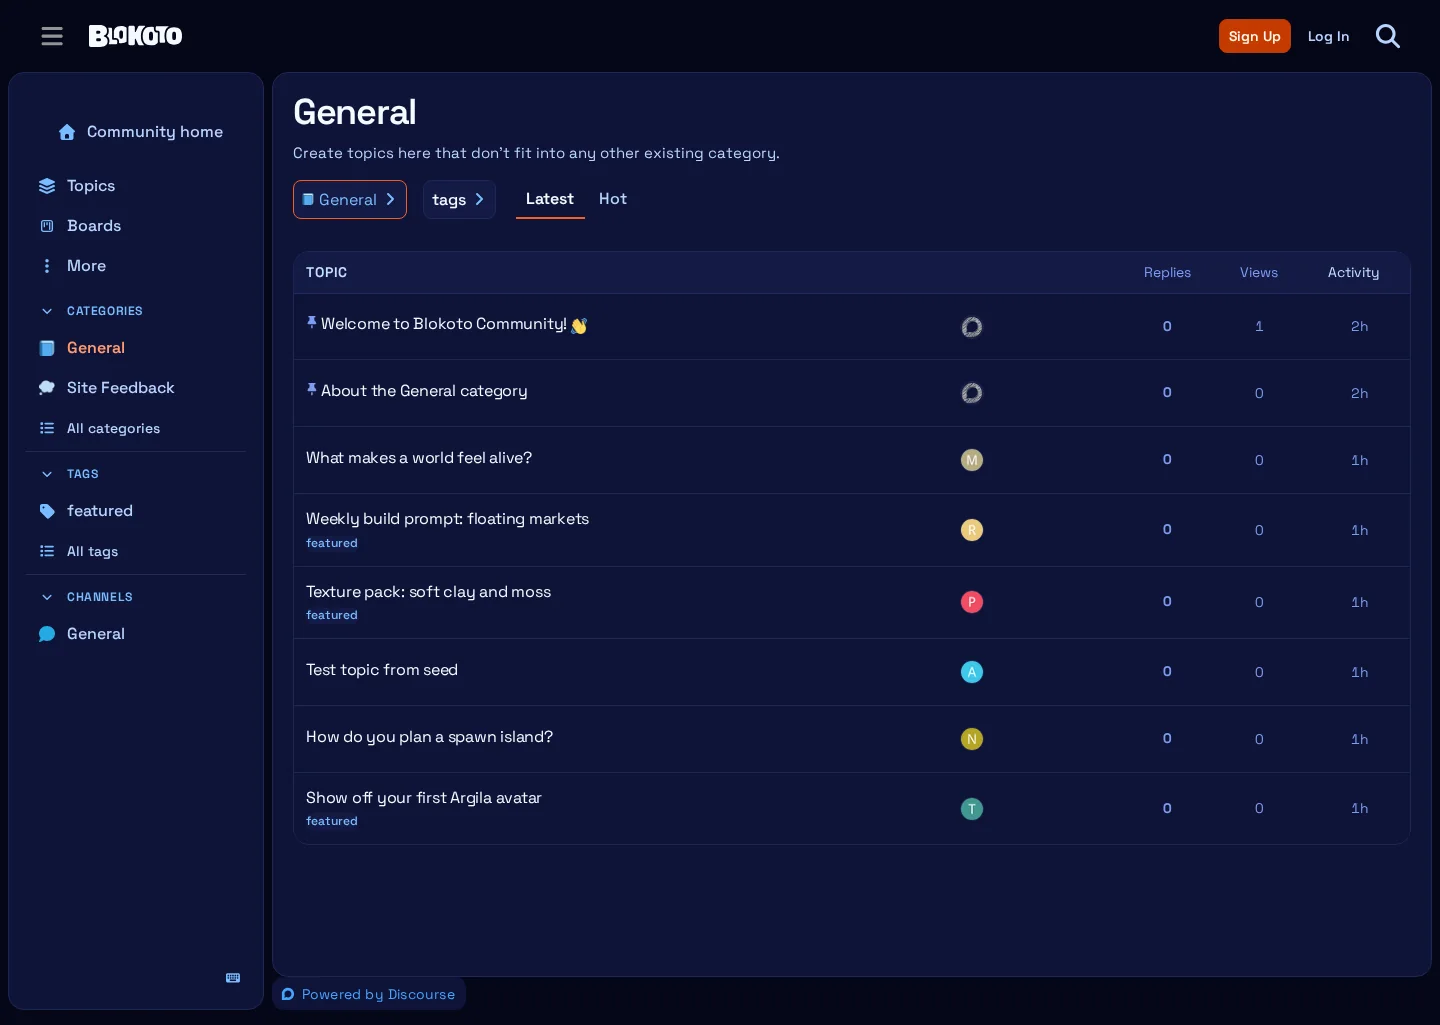
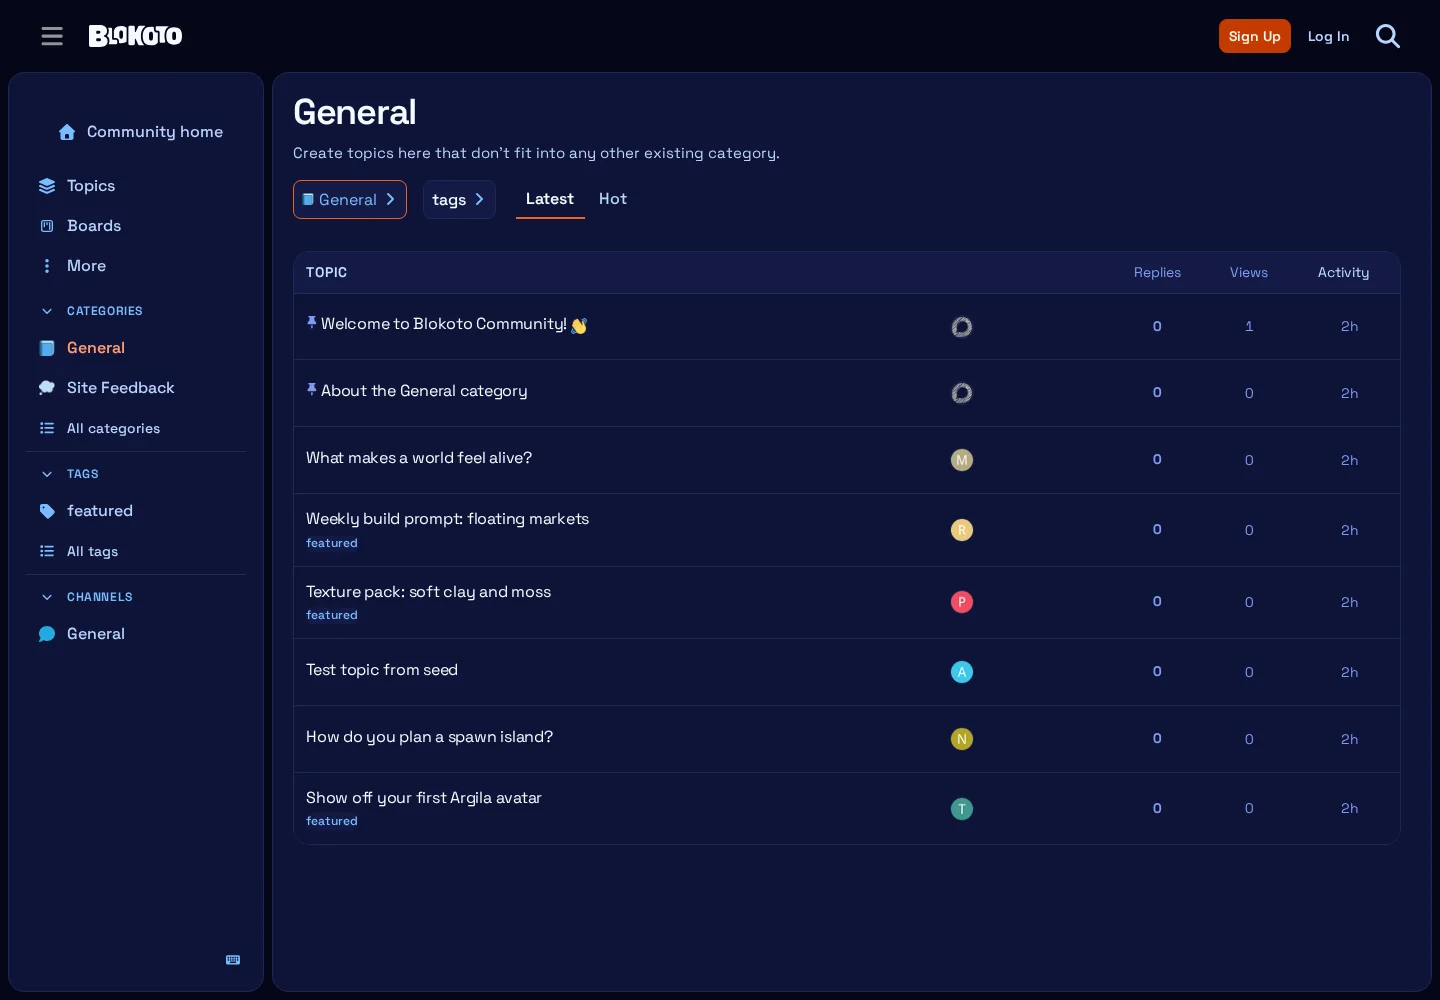
Lock the page viewport and scroll inside the islands

diff --git a/stylesheets/app/base.scss b/stylesheets/app/base.scss
@@ -1,9 +1,11 @@
-html {
+html,
+body {
+  height: 100%;
+  overflow: hidden;
   background-color: var(--t-Blokoto-color-canvas);
 }
 
 body {
-  background-color: var(--t-Blokoto-color-canvas);
   color: var(--t-Blokoto-color-text);
   font-family: var(--font-family);
   font-size: var(--font-up-0);
@@ -29,16 +31,33 @@ body::before {
   position: relative;
   z-index: 1;
   display: grid;
+  grid-template-areas: "sidebar content";
+  grid-template-columns: var(--d-sidebar-width) minmax(0, 1fr);
+  grid-template-rows: minmax(0, 1fr);
   gap: var(--space-2);
-  align-items: start;
+  align-items: stretch;
   width: 100%;
+  height: calc(100dvh - var(--t-Blokoto-header-height));
+  min-height: 0;
   padding: var(--space-2);
+  overflow: hidden;
+}
+
+#below-content,
+.powered-by-discourse {
+  display: none;
 }
 
 #main-outlet {
+  box-sizing: border-box;
+  grid-area: content;
+  scrollbar-gutter: stable;
   min-width: 0;
-  min-height: 60vh;
+  min-height: 0;
+  height: 100%;
   padding: var(--space-5);
+  overflow-y: auto;
+  overscroll-behavior: contain;
   background: var(--t-Blokoto-color-surface);
   border: 1px solid var(--t-Blokoto-color-border);
   border-radius: var(--t-Blokoto-radius);
@@ -48,12 +67,40 @@ body::before {
   max-width: none;
 }
 
+#main-outlet,
+.blokoto-home,
+.sidebar-wrapper {
+  scrollbar-width: thin;
+  scrollbar-color: var(--t-Blokoto-color-border-strong) transparent;
+}
+
+#main-outlet::-webkit-scrollbar,
+.blokoto-home::-webkit-scrollbar,
+.sidebar-wrapper::-webkit-scrollbar {
+  width: 10px;
+  height: 10px;
+}
+
+#main-outlet::-webkit-scrollbar-track,
+.blokoto-home::-webkit-scrollbar-track,
+.sidebar-wrapper::-webkit-scrollbar-track {
+  background: transparent;
+}
+
+#main-outlet::-webkit-scrollbar-thumb,
+.blokoto-home::-webkit-scrollbar-thumb,
+.sidebar-wrapper::-webkit-scrollbar-thumb {
+  background: var(--t-Blokoto-color-border-strong);
+  background-clip: padding-box;
+  border: 3px solid transparent;
+  border-radius: 999px;
+}
+
 body:has(.blokoto-home) {
   #main-outlet-wrapper {
-    grid-template-areas:
-      "content"
-      "below-content";
+    grid-template-areas: "content";
     grid-template-columns: minmax(0, 1fr);
+    grid-template-rows: minmax(0, 1fr);
   }
 
   .sidebar-wrapper {
@@ -61,9 +108,13 @@ body:has(.blokoto-home) {
   }
 
   #main-outlet {
+    display: flex;
+    flex-direction: column;
     padding: 0;
+    overflow: hidden;
     background: transparent;
     border: 0;
+    scrollbar-gutter: auto;
   }
 }
 
@@ -96,6 +147,17 @@ h6 {
   font-family: var(--heading-font-family);
   font-weight: 600;
   letter-spacing: -0.03em;
+}
+
+@include viewport.until(lg) {
+  #main-outlet-wrapper {
+    grid-template-areas: "content";
+    grid-template-columns: minmax(0, 1fr);
+  }
+
+  .sidebar-wrapper {
+    display: none;
+  }
 }
 
 @media (prefers-reduced-motion: reduce) {

diff --git a/stylesheets/app/topic-list.scss b/stylesheets/app/topic-list.scss
@@ -92,11 +92,51 @@
 
 @include viewport.until(md) {
   .topic-list {
+    display: block;
     border-radius: 0.75rem;
 
-    th,
+    thead,
+    .posters,
+    .pull-left,
+    .pull-right,
+    .topic-item-stats .num.activity {
+      display: none;
+    }
+
+    .topic-item-metadata {
+      float: none;
+      width: auto;
+      margin: 0;
+    }
+
+    tbody,
+    tr,
     td {
-      padding: var(--space-2);
+      display: block;
+    }
+
+    .topic-list-item {
+      padding: 0.55rem 0.9rem;
+      border-top: 1px solid var(--t-Blokoto-color-border);
+
+      &:first-child {
+        border-top: 0;
+      }
+    }
+
+    .topic-list-data,
+    td {
+      padding: 0;
+      border: 0;
+    }
+
+    .topic-item-stats {
+      margin-top: 0;
+    }
+
+    .main-link .title {
+      font-size: 0.9375rem;
+      line-height: 1.45;
     }
   }
 }

diff --git a/stylesheets/blocks/block-home.scss b/stylesheets/blocks/block-home.scss
@@ -1,16 +1,31 @@
 .homepage-blocks {
-  margin: 0 0 var(--space-6);
+  box-sizing: border-box;
+  display: flex;
+  flex: 1;
+  flex-direction: column;
+  min-height: 0;
+  margin: 0;
 }
 
-.homepage-blocks__layout {
-  display: block;
+.homepage-blocks__container,
+.homepage-blocks__layout,
+.homepage-blocks__block--home {
+  display: flex;
+  flex: 1;
+  flex-direction: column;
+  min-height: 0;
 }
 
 .blokoto-home {
-  overflow: hidden;
+  box-sizing: border-box;
+  flex: 1;
+  min-height: 0;
+  overflow-y: auto;
+  overscroll-behavior: contain;
   background: var(--t-Blokoto-color-surface);
   border: 1px solid var(--t-Blokoto-color-border);
   border-radius: 1.25rem;
+  scrollbar-gutter: stable;
 }
 
 .blokoto-home__intro {

diff --git a/stylesheets/app/header.scss b/stylesheets/app/header.scss
@@ -1,6 +1,8 @@
 .d-header-wrap {
   position: relative;
   z-index: 1000;
+  box-sizing: border-box;
+  height: var(--t-Blokoto-header-height);
   padding: var(--space-2) var(--space-2) 0;
   background: transparent;
   border: 0;
@@ -91,7 +93,12 @@
 }
 
 @include viewport.until(md) {
+  :root {
+    --t-Blokoto-header-height: 3.75rem;
+  }
+
   .d-header-wrap {
+    height: var(--t-Blokoto-header-height);
     padding: var(--space-2) var(--space-2) 0;
   }
 

diff --git a/stylesheets/app/sidebar.scss b/stylesheets/app/sidebar.scss
@@ -1,9 +1,10 @@
 .sidebar-wrapper {
-  position: sticky;
-  top: calc(3.5rem + var(--space-3));
-  max-height: calc(100dvh - 5rem);
+  box-sizing: border-box;
+  height: 100%;
+  min-height: 0;
   padding: var(--space-2);
   overflow-y: auto;
+  overscroll-behavior: contain;
   background: var(--t-Blokoto-color-surface);
   border: 1px solid var(--t-Blokoto-color-border);
   border-radius: var(--t-Blokoto-radius);

diff --git a/stylesheets/brand/colors.scss b/stylesheets/brand/colors.scss
@@ -13,6 +13,7 @@
   --t-Blokoto-color-button-hover: #a93200;
   --t-Blokoto-color-on-button: #fff8f3;
   --t-Blokoto-color-grid: light-dark(#7d9bf1, #73eff7);
+  --t-Blokoto-header-height: 4rem;
   --t-Blokoto-radius: 1rem;
   --t-Blokoto-radius-small: 0.5rem;
 }

diff --git a/README.md b/README.md
@@ -17,9 +17,12 @@ purpose: get people into current discussions.
   list. No category grid, featured section, link panel, CTA card, or second feed.
 - **Full-width islands.** The main surface, sidebar, and header span the available
   width. Every island uses the same 8px outer margin and 8px gap.
-- **Transparent, borderless navbar.** The header is navigation only, not a filled
-  card. It scrolls with the page so it never sits over content with a see-through
-  background.
+- **The page never scrolls.** `html`/`body` are viewport-height and locked. The main
+  island and the sidebar are independent scroll containers; the page chrome stays
+  put.
+- **Transparent, borderless navbar.** The header is navigation only: no fill, no
+  border, no card. It stays above the scrollable main island, so it never sits over
+  moving content with a see-through background.
 - **Content before chrome.** No gradients, nested cards, icon/heading/text tiles,
   or decorative stat blocks. Hierarchy comes from type, spacing, and one rule
   between sections.
@@ -63,10 +66,16 @@ homepage. The rest of the sidebar is Discourse's normal navigation.
 ## Layout rules
 
 - `--space-2` (8px) is the outer margin and the gap between every island.
+- `html`, `body`, and `#main-outlet-wrapper` are locked to `100dvh`; the body has
+  `overflow: hidden`.
+- The main island is `overflow-y: auto`; the homepage uses the same rule on
+  `.blokoto-home`. The sidebar scrolls independently.
 - The header is `position: relative` with a transparent background and no border.
 - The homepage uses a single full-width surface; its intro is a two-column
   editorial split at desktop (copy left, actions right) and a single column on
   mobile.
+- On mobile, category topic rows collapse to title plus tags inside one scrollable
+  island; table columns, avatars, and activity are removed rather than squeezed.
 - The latest list is not a card grid: rows are separated by a 1px rule inside the
   one surface.
 - The sidebar and main content share the same width system and gap as the
